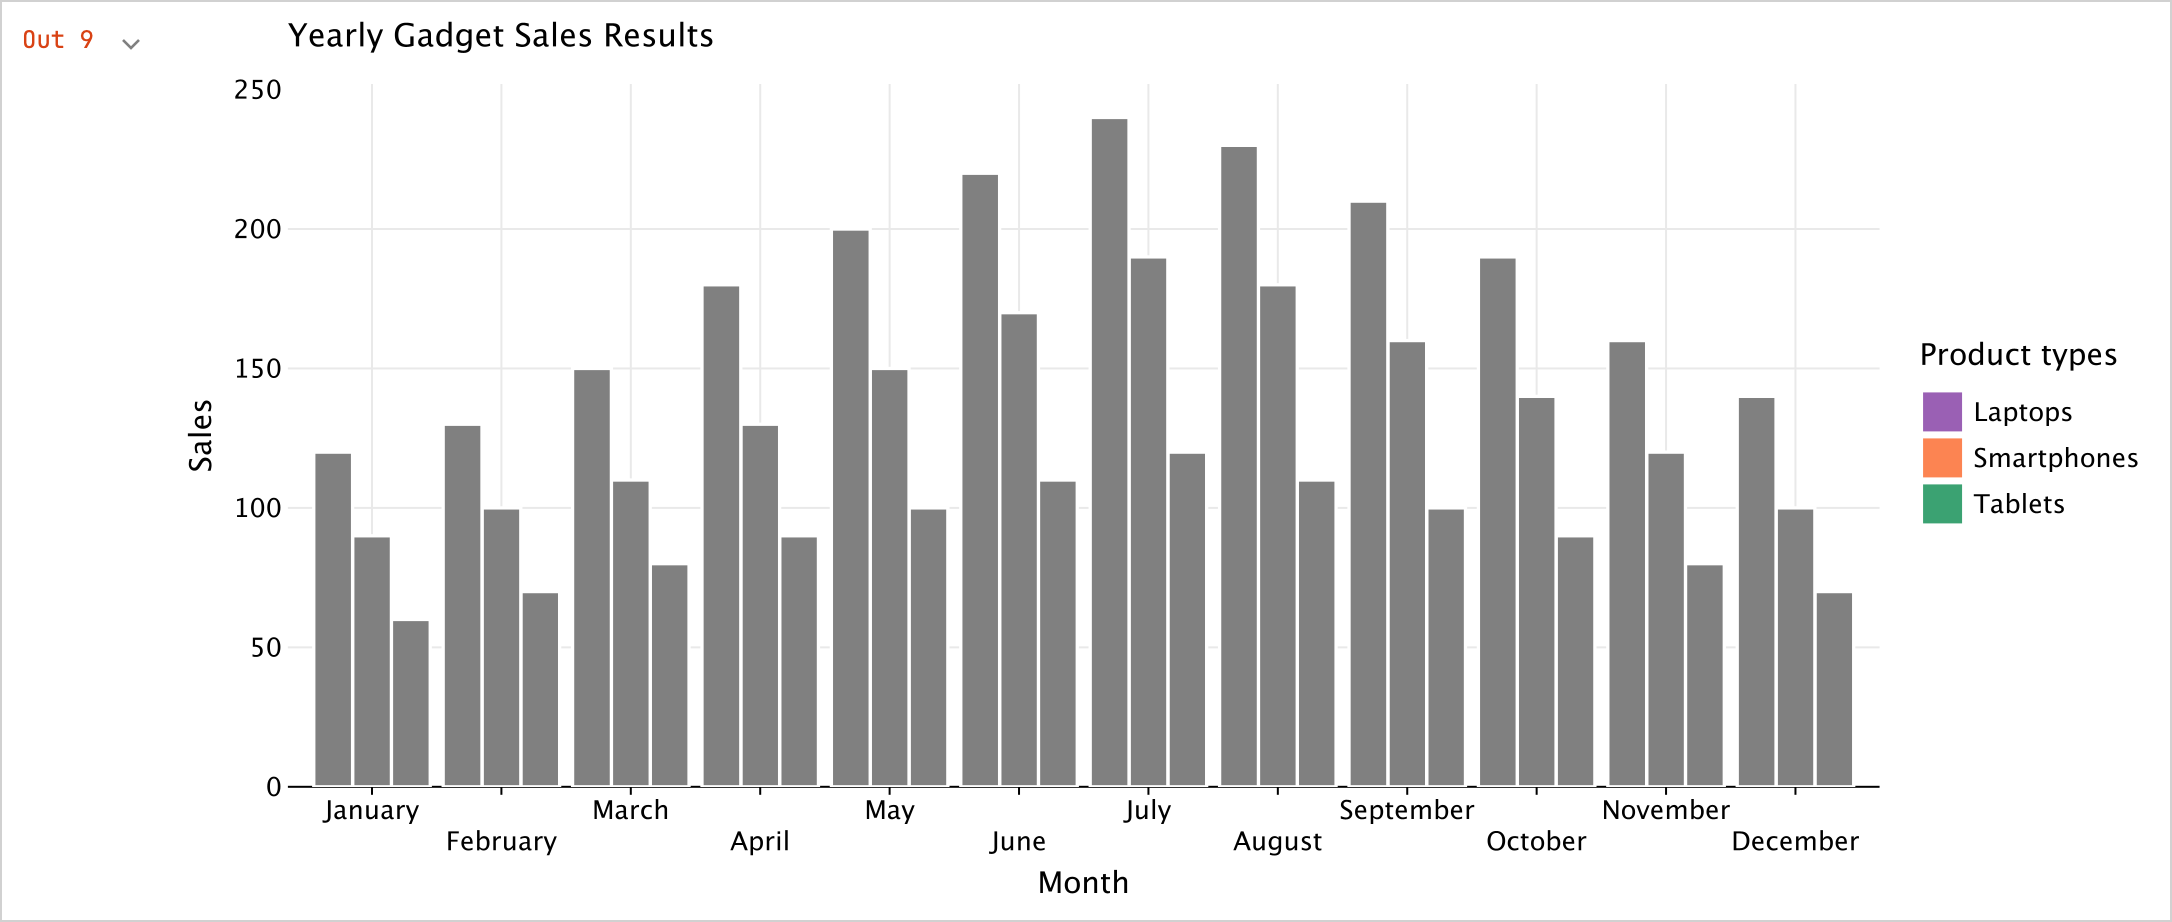
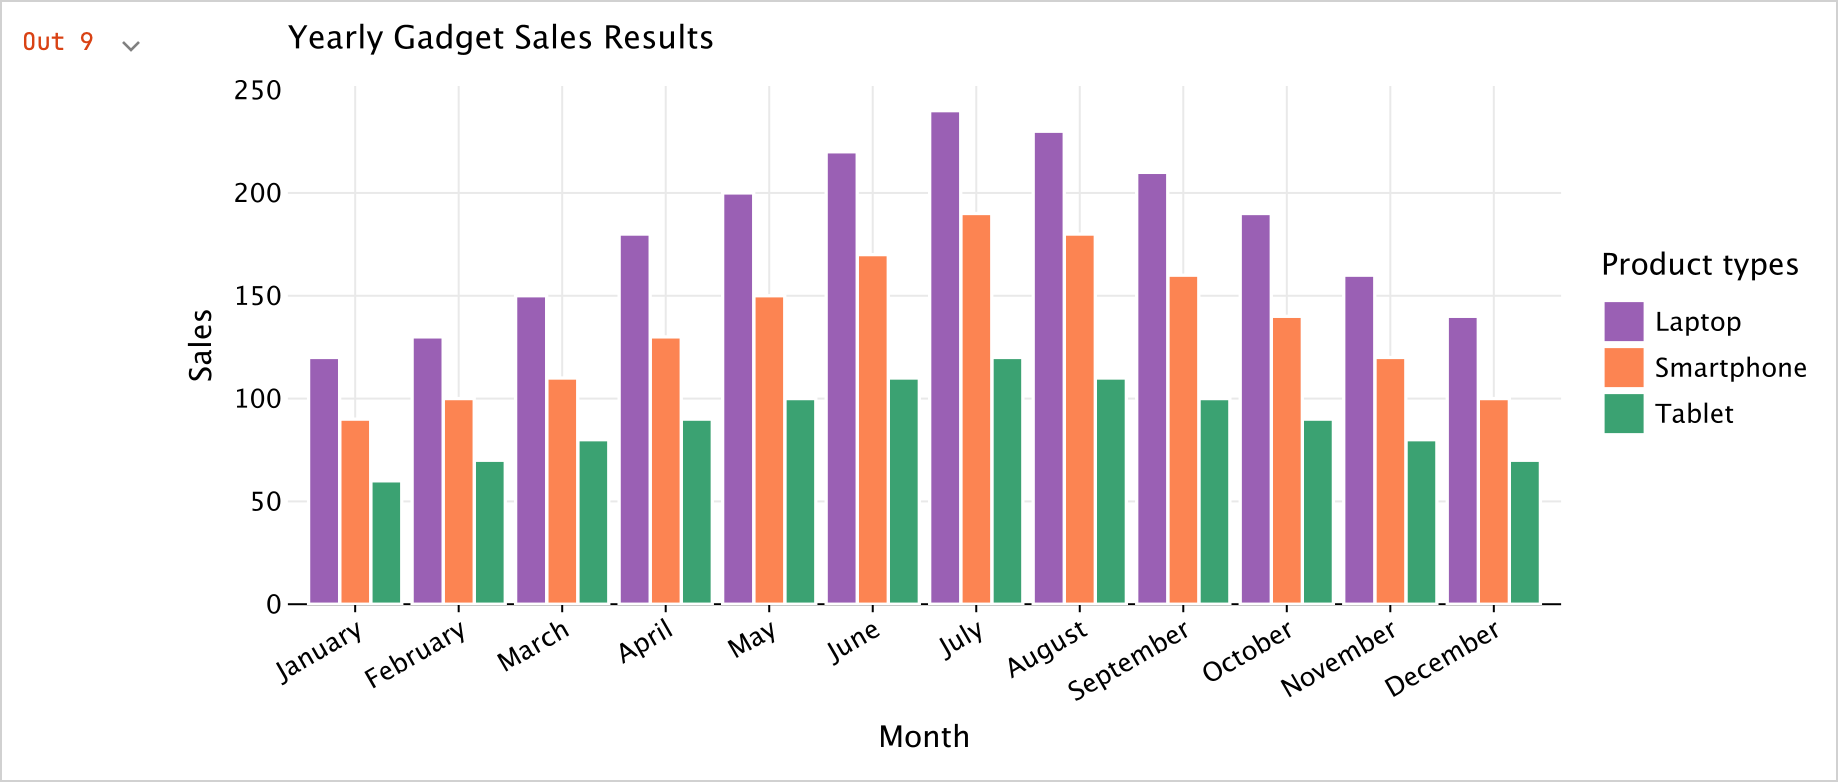
fix: the bug with colors

diff --git a/docs/topics/data-analysis/data-analysis-notebooks-output-formats.md b/docs/topics/data-analysis/data-analysis-notebooks-output-formats.md
@@ -208,9 +208,9 @@ You can create various charts directly in your Kotlin Notebook to visualize your
            // Access the data frame's column used for categories and sets colors for these categories
            fillColor(Product) {
                scale = categorical(
-                   "Laptops" to Color.PURPLE,
-                   "Smartphones" to Color.ORANGE,
-                   "Tablets" to Color.GREEN
+                   "Laptop" to Color.PURPLE,
+                   "Smartphone" to Color.ORANGE,
+                   "Tablet" to Color.GREEN
                )
                legend.name = "Product types"
            }
